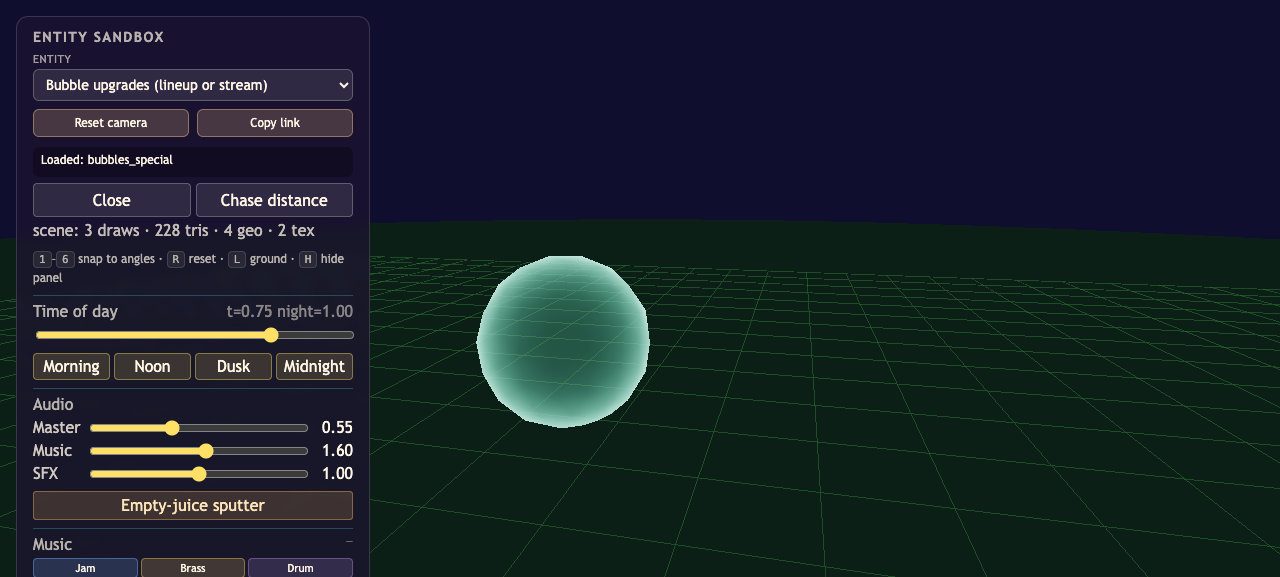
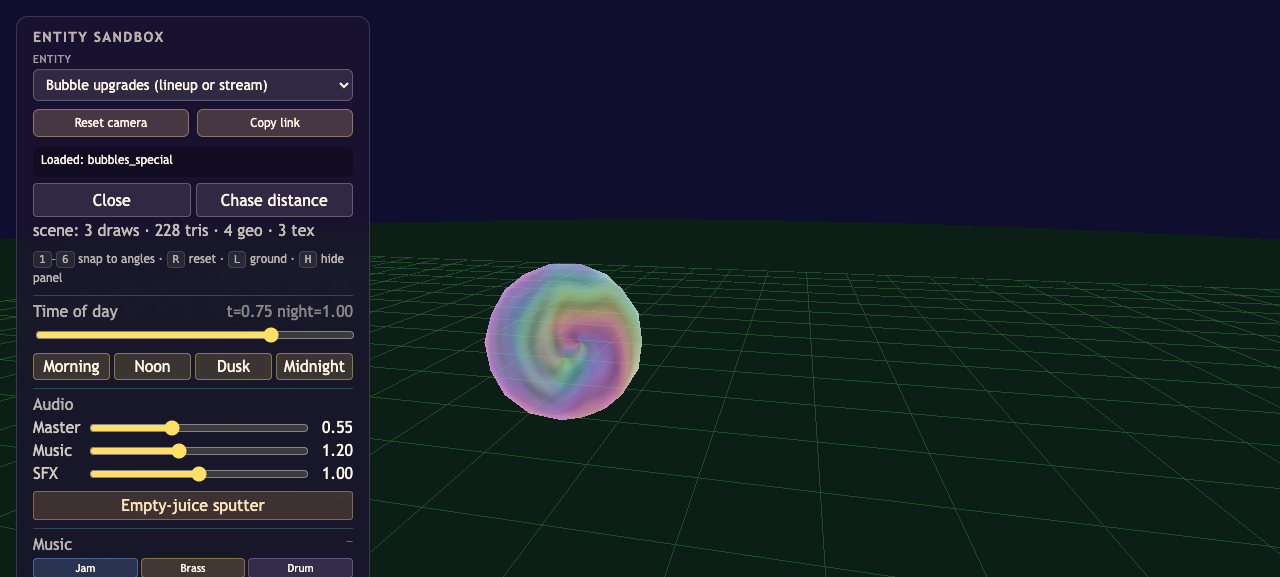
Center Music note and animate Mushroom tie-dye

Changed region(s): [[0.375, 0.4367, 0.5312, 0.7487], [0.125, 0.7487, 0.1875, 0.8111]]

diff --git a/src/specialBubbles.js b/src/specialBubbles.js
@@ -5,7 +5,7 @@ import { createHeartGeometry } from './models/heart.js';
 const HEART_SHELL_SCALE = 1.4;
 const POP_POOL = 128;
 const GOLDEN_ANGLE = 2.399963229728653;
-const ACCENT_STYLE = Object.freeze({ none: 0, ember: 1, firefly: 2, spark: 3, lantern: 4, brass: 5 });
+const ACCENT_STYLE = Object.freeze({ none: 0, ember: 1, firefly: 2, spark: 3, lantern: 4, brass: 5, music: 6, mushroom: 7 });
 
 const SHELL_VERT = /* glsl */ `
   attribute vec4 aTint;
@@ -35,10 +35,26 @@ const SHELL_FRAG = /* glsl */ `
   varying vec2 vFace;
   varying vec2 vAccent;
   #include <fog_pars_fragment>
+  vec3 dyeColor(float hue) {
+    vec3 rgb = clamp(abs(mod(hue * 6.0 + vec3(0.0, 4.0, 2.0), 6.0) - 3.0) - 1.0, 0.0, 1.0);
+    return mix(vec3(1.0), rgb, 0.68);
+  }
   void main() {
     float rim = pow(clamp(vRim, 0.0, 1.0), 1.6);
     vec3 shellColor = vTint.rgb * vTint.a * (0.72 + 1.0 * rim);
     float shellAlpha = uCoreAlpha + uRimAlpha * rim;
+    if (vAccent.x > 6.5 && vAccent.x < 7.5) {
+      vec2 dyeCenter = 0.14 * vec2(sin(vAccent.y * 0.82), cos(vAccent.y * 0.82));
+      vec2 dyePos = vFace - dyeCenter;
+      float radius = length(dyePos);
+      float angle = atan(dyePos.y, dyePos.x);
+      float twist = angle / 6.2831853 + radius * 0.92 - vAccent.y * 0.12
+        + 0.055 * sin(dyePos.x * 9.0 + vAccent.y * 0.6);
+      float ribbon = 0.5 + 0.5 * cos(twist * 18.849556);
+      vec3 dye = dyeColor(fract(twist + 0.68));
+      shellColor = mix(shellColor, dye, 0.84);
+      shellAlpha = max(shellAlpha, 0.10 + 0.13 * ribbon);
+    }
     float accentAlpha = 0.0;
     vec3 accentColor = vec3(1.0);
     if (gl_FrontFacing) {
@@ -84,6 +100,20 @@ const SHELL_FRAG = /* glsl */ `
         float flash = exp(-40.0 * dot(p - vec2(sweepX, 0.0), p - vec2(sweepX, 0.0)));
         accentAlpha = min(0.8, streak * 0.55 + flash * 0.25);
         accentColor = vec3(1.0, 0.93, 0.55);
+      } else if (vAccent.x > 5.5 && vAccent.x < 6.5) {
+        vec2 note = p - vec2(0.10, 0.07);
+        vec2 head = note - vec2(-0.18, -0.27);
+        float oval = length(vec2((head.x + head.y * 0.25) / 0.29, head.y / 0.18));
+        float noteHead = 1.0 - smoothstep(0.82, 1.05, oval);
+        float stem = (1.0 - smoothstep(0.035, 0.075, abs(note.x - 0.08)))
+          * smoothstep(-0.30, -0.23, note.y) * (1.0 - smoothstep(0.42, 0.50, note.y));
+        float flagX = smoothstep(0.05, 0.11, note.x) * (1.0 - smoothstep(0.37, 0.45, note.x));
+        float flagTop = 0.50 - (note.x - 0.08) * 0.61;
+        float flagBottom = 0.38 - (note.x - 0.08) * 0.74;
+        float flag = flagX * (1.0 - smoothstep(flagTop - 0.035, flagTop + 0.015, note.y))
+          * smoothstep(flagBottom - 0.015, flagBottom + 0.035, note.y);
+        accentAlpha = min(0.96, max(noteHead, max(stem, flag)) * (0.91 + 0.05 * sin(phase * 3.0)));
+        accentColor = vec3(1.0, 0.97, 0.75);
       }
     }
     float accent = clamp(accentAlpha * (1.0 - rim * 0.45), 0.0, 1.0);

diff --git a/src/bubbleTypes.js b/src/bubbleTypes.js
@@ -35,7 +35,7 @@ export const BUBBLE_TYPES = Object.freeze([
     look: look('heart', 0xff5fa2, 'steady', 0.4, [1, 1, 1], pop([0xff5fa2, 0xffd1e6], 12)),
     boost: (ctx) => ctx.lurleenNear ? 4 : 1 },
   { id: 'music', name: 'Music Bubbles', order: 2, secret: false, hint: 'Catch three different stages.', earnedLine: null,
-    look: look('sphere', 0x8a7dff, 'pulse', 0.3, [1, 1, 1], pop([0x8a7dff, 0x56e0c2], 10)),
+    look: look('sphere', 0x8a7dff, 'pulse', 0.3, [1, 1, 1], pop([0x8a7dff, 0x56e0c2], 10), 'music'),
     boost: (ctx) => ctx.nearStage ? 3 : 1 },
   { id: 'ember', name: 'Ember Bubbles', order: 3, secret: false, hint: 'Join a drum circle after dark.', earnedLine: null,
     look: look('sphere', 0xff8a2a, 'flicker', 0.55, [1, 1, 1], pop([0xff8a2a, 0xffc05a], 10, 0.8, 0.7, 0.25), 'ember'),
@@ -59,7 +59,7 @@ export const BUBBLE_TYPES = Object.freeze([
     look: look('sphere', 0xff8ab4, 'confetti', 0.25, [1, 1, 1], pop([0xff8ab4, 0xffdf78, 0x76ddc5, 0xa996ff], 16, 0.8, 0.7, -0.3)),
     boost: () => 1 },
   { id: 'mushroom', name: 'Mushroom Bubbles', order: 10, secret: true, hint: 'Never shown before it is earned.', earnedLine: 'A gift from a new friend.',
-    look: look('sphere', 0x9b5de5, 'swirl', 0.35, [1, 1, 1], pop([0x9b5de5, 0x3ddc97], 10)),
+    look: look('sphere', 0x9b5de5, 'swirl', 0.35, [1, 1, 1], pop([0x9b5de5, 0x3ddc97, 0xff8a9f, 0xffd66e], 10), 'mushroom'),
     boost: (ctx) => ctx.tripActive ? 3 : 1 },
   { id: 'brass', name: 'Brass Bubbles', order: 11, secret: false, hint: 'Roll with the brass band.', earnedLine: null,
     look: look('sphere', 0xd9a520, 'glint', 0.4, [1, 1, 1], pop([0xd9a520, 0xffe39a], 10), 'brass'),
@@ -183,9 +183,8 @@ export function computeTint(bubbleLook, t, nightness, seed, out) {
       rgb(CONFETTI[Math.floor((((seed % 1) + 1) % 1) * CONFETTI.length)], out);
       break;
     case 'swirl': {
-      const blend = (Math.sin(time * TAU / 6 + phase) + 1) * 0.5;
       scale = 1 + Math.sin(time * TAU * 0.4 + phase) * 0.06;
-      mixHex(0x9b5de5, 0x3ddc97, blend, out);
+      rgb(base, out);
       break;
     }
     case 'glint': {

diff --git a/verification/bubble-upgrades/checkpoint-4/GATE-C.md b/verification/bubble-upgrades/checkpoint-4/GATE-C.md
@@ -1,6 +1,6 @@
 # Gate C: ten bubble looks
 
-All eleven upgrade types now unlock through their intended game paths. The ten new looks are ready for Gary's grouped visual approval before the charm and leaderboard work begins. These captures use the Low tier with the sandbox's normal Noon and Midnight lighting. Each stream was placed at the sandbox's 12 m horizontal, 6.5 m high chase-camera distance.
+All eleven upgrade types now unlock through their intended game paths. The ten new looks are ready for Gary's grouped visual approval before the charm and leaderboard work begins. These captures use the Low tier with the sandbox's normal Noon and Midnight lighting. Each stream was placed at the sandbox's 12 m horizontal, 6.5 m high chase-camera distance. Music and Mushroom captures were refreshed on 2026-10-16 after Gary asked for a note and moving tie-dye.
 
 ## Full lineup
 
@@ -15,7 +15,7 @@ All eleven upgrade types now unlock through their intended game paths. The ten n
 | Firefly | [Still](firefly-still-noon-low.png) | [Still](firefly-still-midnight-low.png) | [Stream](firefly-stream-noon-low.png) | [Stream](firefly-stream-midnight-low.png) |
 | Rainbow | [Still](rainbow-still-noon-low.png) | [Still](rainbow-still-midnight-low.png) | [Stream](rainbow-stream-noon-low.png) | [Stream](rainbow-stream-midnight-low.png) |
 
-Music pulses; Ember carries a warm coal and flecks; Firefly carries a wandering green light; Rainbow moves through the full spectrum. [Music](http://127.0.0.1:8765/sandbox.html?entity=bubbles_special&type=music&view=still&perf=low&mute=1), [Ember](http://127.0.0.1:8765/sandbox.html?entity=bubbles_special&type=ember&view=still&perf=low&mute=1), [Firefly](http://127.0.0.1:8765/sandbox.html?entity=bubbles_special&type=firefly&view=still&perf=low&mute=1), and [Rainbow](http://127.0.0.1:8765/sandbox.html?entity=bubbles_special&type=rainbow&view=still&perf=low&mute=1) can be watched in motion on the running local server.
+Music pulses around a centered cream note; Ember carries a warm coal and flecks; Firefly carries a wandering green light; Rainbow moves through the full spectrum. The Music [Midnight unlock burst](music-unlock-burst-midnight-low.png) shows a denser moment than the ordinary stream above. [Music](http://127.0.0.1:8765/sandbox.html?entity=bubbles_special&type=music&view=still&perf=low&mute=1), [Ember](http://127.0.0.1:8765/sandbox.html?entity=bubbles_special&type=ember&view=still&perf=low&mute=1), [Firefly](http://127.0.0.1:8765/sandbox.html?entity=bubbles_special&type=firefly&view=still&perf=low&mute=1), and [Rainbow](http://127.0.0.1:8765/sandbox.html?entity=bubbles_special&type=rainbow&view=still&perf=low&mute=1) can be watched in motion on the running local server.
 
 ## Group 2: Sparkler, Lantern, Smile, Confetti
 
@@ -35,13 +35,13 @@ Sparkler has a white-gold inner star, and Lantern has a warm paper core. Smile i
 | Mushroom | [Still](mushroom-still-noon-low.png) | [Still](mushroom-still-midnight-low.png) | [Stream](mushroom-stream-noon-low.png) | [Stream](mushroom-stream-midnight-low.png) |
 | Brass | [Still](brass-still-noon-low.png) | [Still](brass-still-midnight-low.png) | [Stream](brass-stream-noon-low.png) | [Stream](brass-stream-midnight-low.png) |
 
-Mushroom drifts slowly between purple and green, and Brass sweeps a gold glint across the shell every 1.5 seconds. [These two Brass frames](brass-glint-phase-2-low.png) and [the Midnight still](brass-still-midnight-low.png) show the highlight moving across the same shell. [Mushroom](http://127.0.0.1:8765/sandbox.html?entity=bubbles_special&type=mushroom&view=still&perf=low&mute=1) and [Brass](http://127.0.0.1:8765/sandbox.html?entity=bubbles_special&type=brass&view=still&perf=low&mute=1) have live previews.
+Mushroom carries a multicolor tie-dye spiral whose center travels around the shell as the pattern rotates. [Midnight frame A](mushroom-motion-midnight-a.png) and [frame B](mushroom-motion-midnight-b.png), taken about two seconds apart, show its movement; the [Midnight unlock burst](mushroom-unlock-burst-midnight-low.png) shows the denser earn moment. Brass sweeps a gold glint across the shell every 1.5 seconds; its [Midnight still](brass-still-midnight-low.png) and [second phase](brass-glint-phase-2-low.png) show the highlight moving. [Mushroom](http://127.0.0.1:8765/sandbox.html?entity=bubbles_special&type=mushroom&view=still&perf=low&mute=1) and [Brass](http://127.0.0.1:8765/sandbox.html?entity=bubbles_special&type=brass&view=still&perf=low&mute=1) have live previews.
 
 ## Looks to judge closely
 
 - At the full chase distance, individual bubbles are small. The still views make the Ember, Firefly, Sparkler, and Lantern interiors clear, while the stream views show their practical size. Decide whether the accents are strong enough while driving.
-- Rainbow and Mushroom can pass through similar green hues in a still frame. Their moving patterns differ: Rainbow cycles through the full spectrum rapidly, while Mushroom moves between two colors slowly. Compare those two live previews before approving their distinction.
-- Music relies on its pulse and Smile on its steady yellow color. They are the weakest static identifiers in the lineup. If they need stronger silhouettes or inner accents, this is the point to change them.
+- Rainbow changes the whole shell's hue, while Mushroom shows several hues at once in a moving spiral. Compare those two live previews before approving their distinction.
+- The Music note is clear in the still view, while the chase view shows how small it becomes in normal play. Smile remains the weakest static identifier because its look relies on steady yellow. Decide whether that is enough for the overall set.
 
 ## Game-path verification
 
@@ -58,6 +58,6 @@ Mushroom drifts slowly between purple and green, and Brass sweeps a gold glint a
 | Mushroom | Both manual trip modes stayed locked. A real wook approached the parked cart, offered a trip, and acceptance awarded it. The player menu hid the card before earn and showed its earned copy afterward. The active trip set the ×3 spawn context. |
 | Brass | A moving band collider awarded it. |
 
-A `window.gtag` stub recorded one `bubble_unlocked` event for each newly earned type, with the correct `type`, `mode`, and `unlocked_count`; the debug and repeat paths sent none in the checks above. The Low-tier game completed the full Rainbow drive with no uncaught browser errors. [Full `npm run check` output](npm-run-check.txt) passed with the bubble and wook edits present.
+A `window.gtag` stub recorded one `bubble_unlocked` event for each newly earned type, with the correct `type`, `mode`, and `unlocked_count`; the debug and repeat paths sent none in the checks above. The Low-tier game completed the full Rainbow drive with no uncaught browser errors. After the Music and Mushroom changes, the full game also started and rendered their special bubbles on Low and High without browser errors. [Full `npm run check` output](npm-run-check.txt) passed with the bubble and wook edits present.
 
 Gary's decision here is the grouped look approval. Checkpoint 5 begins after Gate C is approved.

diff --git a/BUBBLE-UPGRADES-PLAN.md b/BUBBLE-UPGRADES-PLAN.md
@@ -507,7 +507,7 @@ Build one type at a time in D9 (first wave) order. For each type, every step bel
   **Done when:** accepting a wook's offer unlocks it, a manual T-menu trip doesn't, and before the unlock the menu, README and title card show no trace of it.
 - [x] **4.10 Brass.** Band proximity. A live band collider unlocked Brass.
   **Done when:** rolling alongside the band unlocks it.
-- [ ] **4.11 Gary gate C.** Send Gary the lineup at Noon and Midnight plus one chase-distance stream per type. Batch the requests (for example, 4.1-4.4, then 4.5-4.8, then 4.9-4.10) instead of one per type. [The grouped review packet](verification/bubble-upgrades/checkpoint-4/GATE-C.md) is ready; Gary's look decision is pending.
+- [ ] **4.11 Gary gate C.** Send Gary the lineup at Noon and Midnight plus one chase-distance stream per type. Batch the requests (for example, 4.1-4.4, then 4.5-4.8, then 4.9-4.10) instead of one per type. Gary asked on 2026-10-16 for a centered note in Music and a moving tie-dye spiral on Mushroom; both revisions and their refreshed captures are in [the grouped review packet](verification/bubble-upgrades/checkpoint-4/GATE-C.md). Gary's look decision is pending.
   **Done when:** Gary approves each look or lists changes.
 
 **Exit condition:** all eleven types unlock through their real triggers and read as distinct at chase distance on Low tier.

diff --git a/CHANGELOG.md b/CHANGELOG.md
@@ -2,6 +2,11 @@
 
 All notable changes to Zerble at the Festival. Newest at top. Following [Keep a Changelog](https://keepachangelog.com); the project isn't versioned yet, so entries are grouped by date.
 
+## 2026-10-16
+
+### Changed
+- **Music and Mushroom bubbles have stronger identities.** Music now carries a centered cream note inside its translucent violet shell. Mushroom shows several tie-dye colors at once in a spiral that rotates and wanders around the shell, rather than changing the whole bubble between purple and green. Both effects use the existing pooled shell draw. [Revised Gate C stills, streams and motion frames](verification/bubble-upgrades/checkpoint-4/GATE-C.md).
+
 ## 2026-10-15
 
 ### Added
